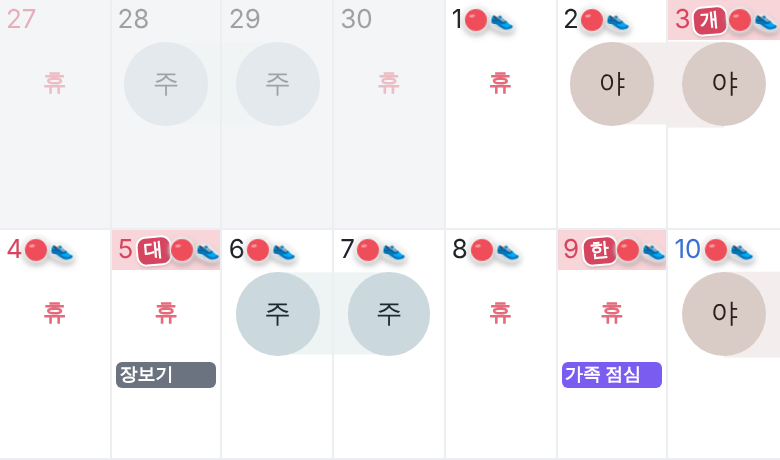
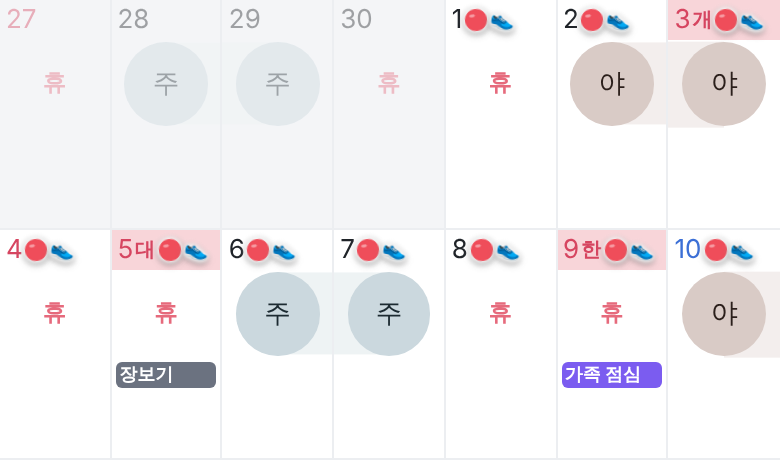
시안: 공휴일 한 글자는 그냥 텍스트로
Claude-Session: https://claude.ai/code/session_01DP2NyZv5qNdwYSJLeYP8U7

Changed region(s): [[0.8615, 0.0, 1.0, 0.0913], [0.1538, 0.487, 0.2769, 0.5783], [0.7385, 0.5174, 0.8615, 0.5783]]

diff --git a/design/ui-sticker-holiday.html b/design/ui-sticker-holiday.html
@@ -9,5 +9,5 @@ img{width:100%;border-radius:12px;border:5px solid #1d2330}
 <div class="c"><b>② 스티커 외형만 바꿈</b><small>이름은 여전히 숨고, 스티커만 또렷해져요</small><img src="sticker/hol_stk.png"></div>
 <div class="c"><b>③ 명절 스티커를 날짜 줄에</b><small>이름 자리에 명절 스티커 · 내 스티커는 아래 줄로 내려가요<br>동그라미가 조금 작아져요</small><img src="sticker/hol_P.png"></div>
 <div class="c"><b>④ 명절 스티커를 칸 모서리에 크게</b><small>다이어리에 붙인 느낌이지만 근무 동그라미 · "휴" 글자와 <b>겹쳐요</b></small><img src="sticker/hol_Q.png"></div>
-<div class="c"><b>⑤ 한 글자 표시 (개 · 대 · 한)</b><small>날짜 숫자 바로 옆에 작은 빨간 라벨 한 글자 + 내 스티커 2개가 <b>한 줄에 다 들어가요</b><br>둘째 줄도, 동그라미 축소도 필요 없어요 (스티커를 조금 작게)</small><img src="sticker/hol_R.png"></div>
+<div class="c"><b>⑤ 한 글자 표시 (개 · 대 · 한)</b><small>날짜 숫자 바로 옆에 빨간 <b>글자 한 개(그냥 텍스트)</b> + 내 스티커 2개가 <b>한 줄에 다 들어가요</b><br>둘째 줄도, 동그라미 축소도 필요 없어요 (스티커를 조금 작게)</small><img src="sticker/hol_R.png"></div>
 </div></body></html>

diff --git a/docs/TODO.md b/docs/TODO.md
@@ -280,7 +280,7 @@
       · **스티커판**(설정 › 스티커로 들어감): 위에 이번 달 요약(이번 달 스티커 N개 · 연속 N일 · 지난달보다 ±N), 스티커 종류마다 한 달 판 카드(1~31일 11칸씩, 한 일은 스티커가 붙고 · 오늘은 초록 링 · 아직 안 온 날은 흐린 점선 · 못 한 날은 점선 빈 칸) + 카드 아래 한 줄(연속 N일 · 이번 주 N번), 달 ‹ › 로 넘기기, 맨 아래 "스티커 관리 ›"
       · **스티커 외형**: 흰 테두리 + 얇은 그림자 + 칸마다 살짝 다른 기울기(달력 칸 · 판 모두)
       · **날짜 아래 메모**: 회색 상자 · 버튼 · 채팅 입력창을 없애고 줄 노트처럼(점선 줄), 가족 메모 = 보라 점 + 형광펜 밑줄 + 쓴 사람, 나만 메모 = 빈 점 + 글자만 "♡ 가족에게", 입력은 줄 한 칸 "한 줄 쓰기…" + ✎ (🔒 나만 ▾ 로 가족 메모 전환). 누르는 영역은 넉넉히
-- [ ] **명절 · 공휴일 스티커 (논의 중)**: 명절(설날 · 추석)과 주요 공휴일(어린이날 · 크리스마스 등) 칸에 그날의 **자동 스티커**(🧧 설날 · 🌕 추석 · 🎈 어린이날 · 🎄 크리스마스 …)를 같은 스티커 외형(흰 테두리 · 그림자 · 기울기)으로 붙임. 지금의 빨간 글자 공휴일 이름(상주 "휴" 자리의 2글자 포함)과 어떻게 같이 둘지는 시안으로 정함 (design/ui-sticker-holiday.png: 현재는 스티커가 있으면 이름이 숨음. 후보 ⑤ **한 글자 라벨**(개천절=개 · 성탄절=성 · 부처님오신날=부 · 설날=설 · 추석=추 · 한글날=한 · 대체공휴일=대)을 날짜 숫자 옆에 작게 붙이면 스티커 2개와 한 줄에 다 들어감). 켜고 끄기는 부가 기능 후보
+- [ ] **명절 · 공휴일 스티커 (논의 중)**: 명절(설날 · 추석)과 주요 공휴일(어린이날 · 크리스마스 등) 칸에 그날의 **자동 스티커**(🧧 설날 · 🌕 추석 · 🎈 어린이날 · 🎄 크리스마스 …)를 같은 스티커 외형(흰 테두리 · 그림자 · 기울기)으로 붙임. 지금의 빨간 글자 공휴일 이름(상주 "휴" 자리의 2글자 포함)과 어떻게 같이 둘지는 시안으로 정함 (design/ui-sticker-holiday.png: 현재는 스티커가 있으면 이름이 숨음. 후보 ⑤ **한 글자 텍스트(스티커 모양 아님, 그냥 빨간 글자)**(개천절=개 · 성탄절=성 · 부처님오신날=부 · 설날=설 · 추석=추 · 한글날=한 · 대체공휴일=대)을 날짜 숫자 옆에 작게 붙이면 스티커 2개와 한 줄에 다 들어감). 켜고 끄기는 부가 기능 후보
 - [ ] **약 도장 색 고르기** (지금은 빨강 하나로 고정): 약마다 색을 고를 수 있게 — 약 편집 화면에 동그라미 색 6~8개 한 줄(빨강 · 주황 · 노랑 · 초록 · 파랑 · 보라 · 분홍 · 회색), 기본은 빨강(기존 약은 그대로 빨강). 달력 · 도장 창 · 요약 모두 그 색 사용(안 먹은 날 테두리 · 먹으면 채움 · 반쯤 먹으면 부분 채움 방식은 그대로). 이모티콘 도장은 그대로. 요청 상태 링 색(주황 · 청록 · 초록 · 빨강)과는 모양(링 vs 채운 동그라미)이 달라 안 겹침
 - [x] 근무 시간 화면 고치기 — 시안: design/ui-times-sort.png
       · 🐞 시계(오후 6:30 같은 칸)를 눌러도 시간 고르는 창이 안 뜸 (폰/태블릿) → **앱 안의 시간 · 날짜 고르기 창**으로 바꿈 (오전/오후 · 시 · 분 5분 단위, 날짜는 달력). 알람 시간 · 처음 시작 알람도 같은 창
